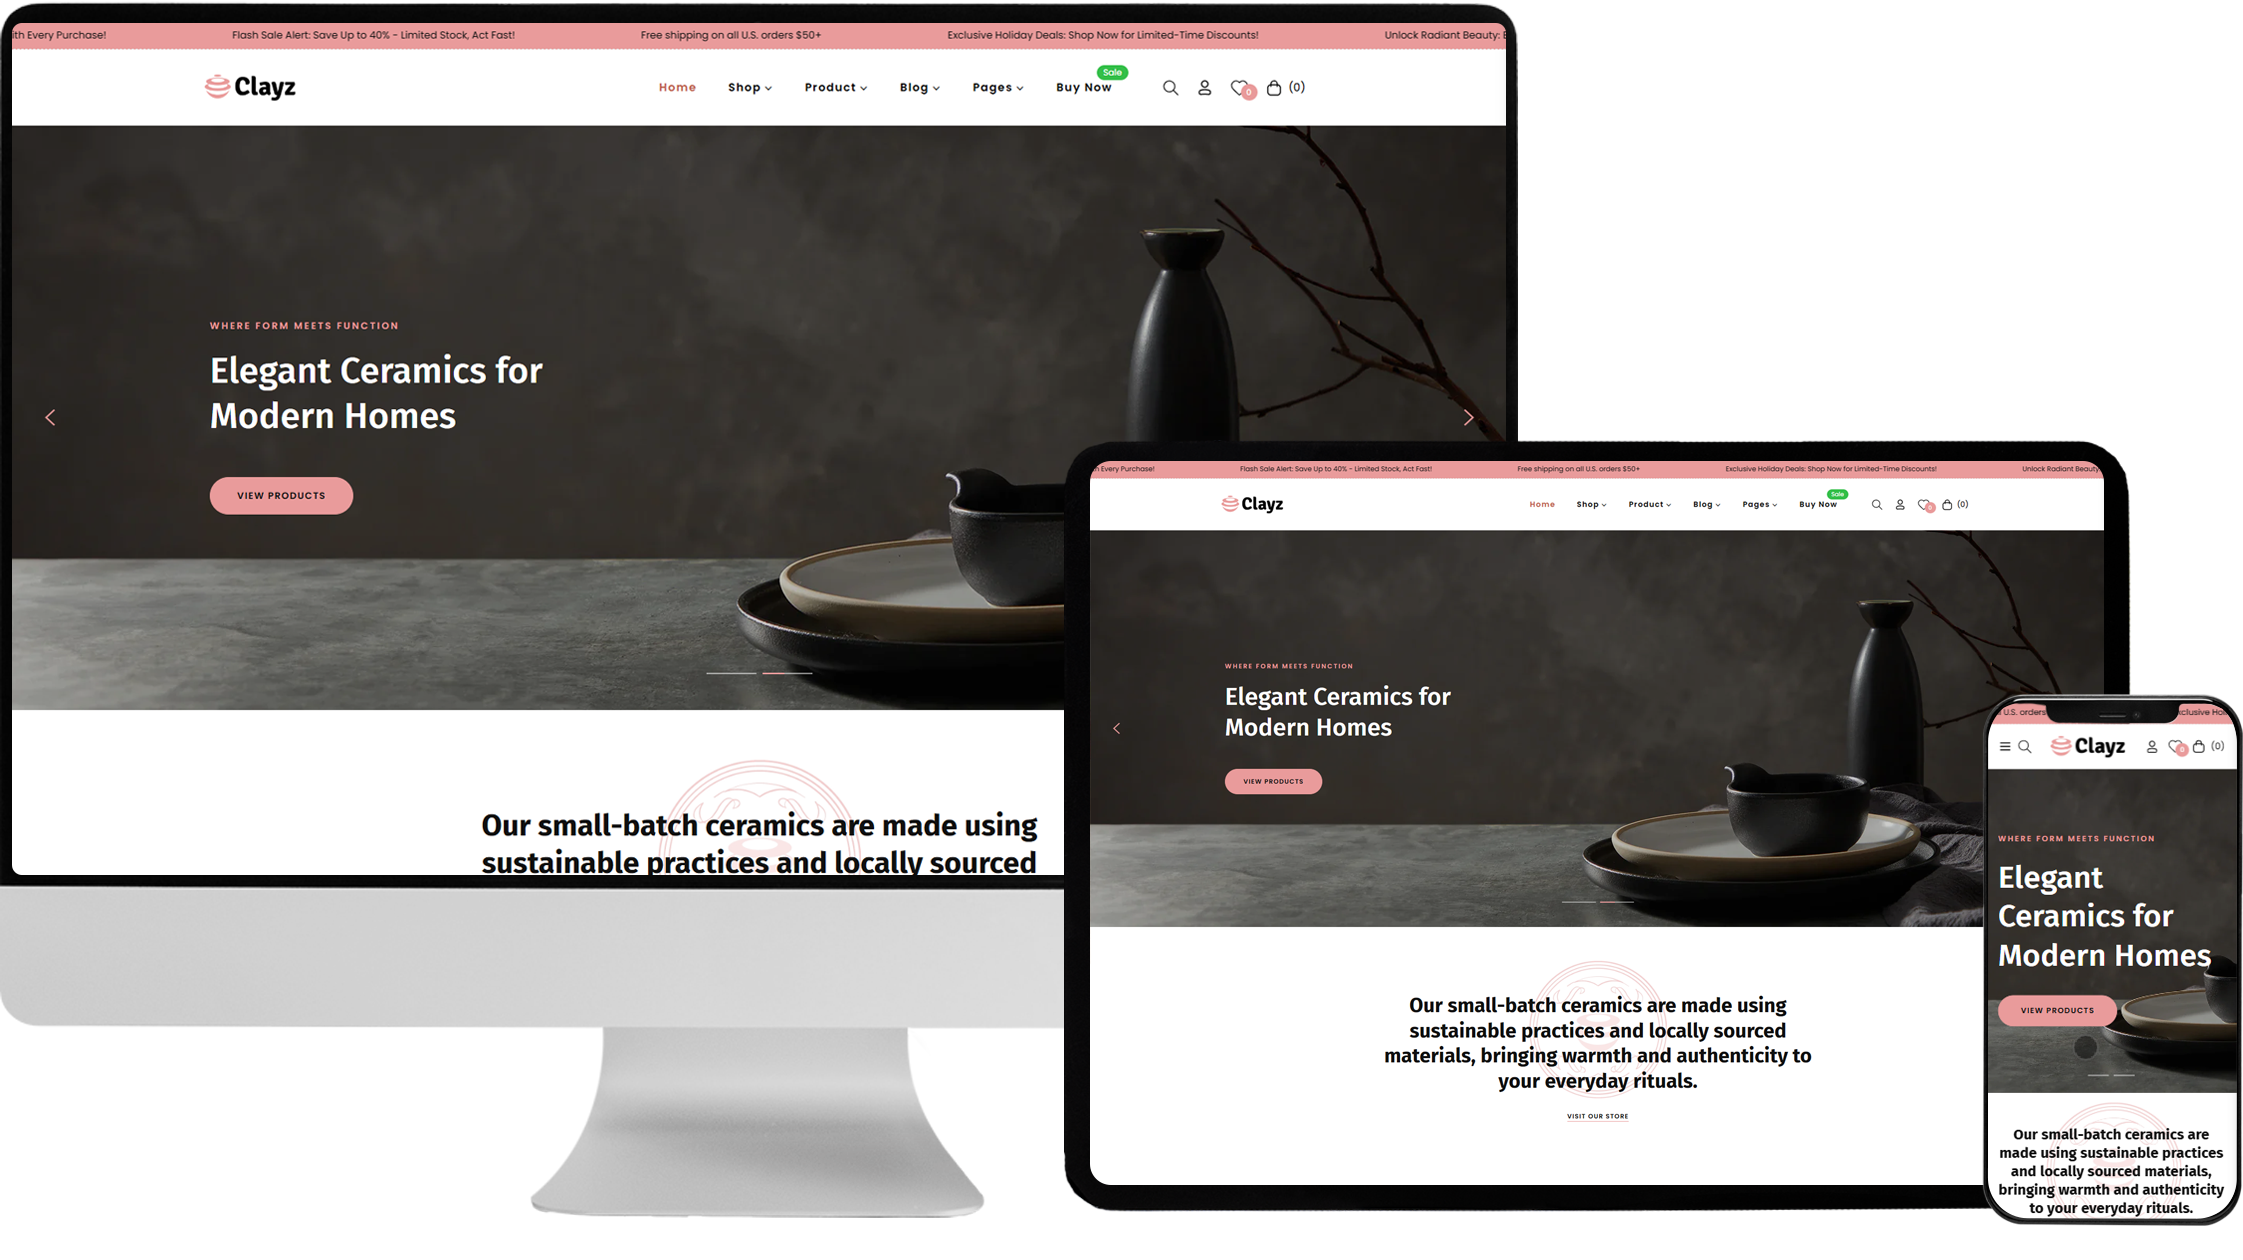
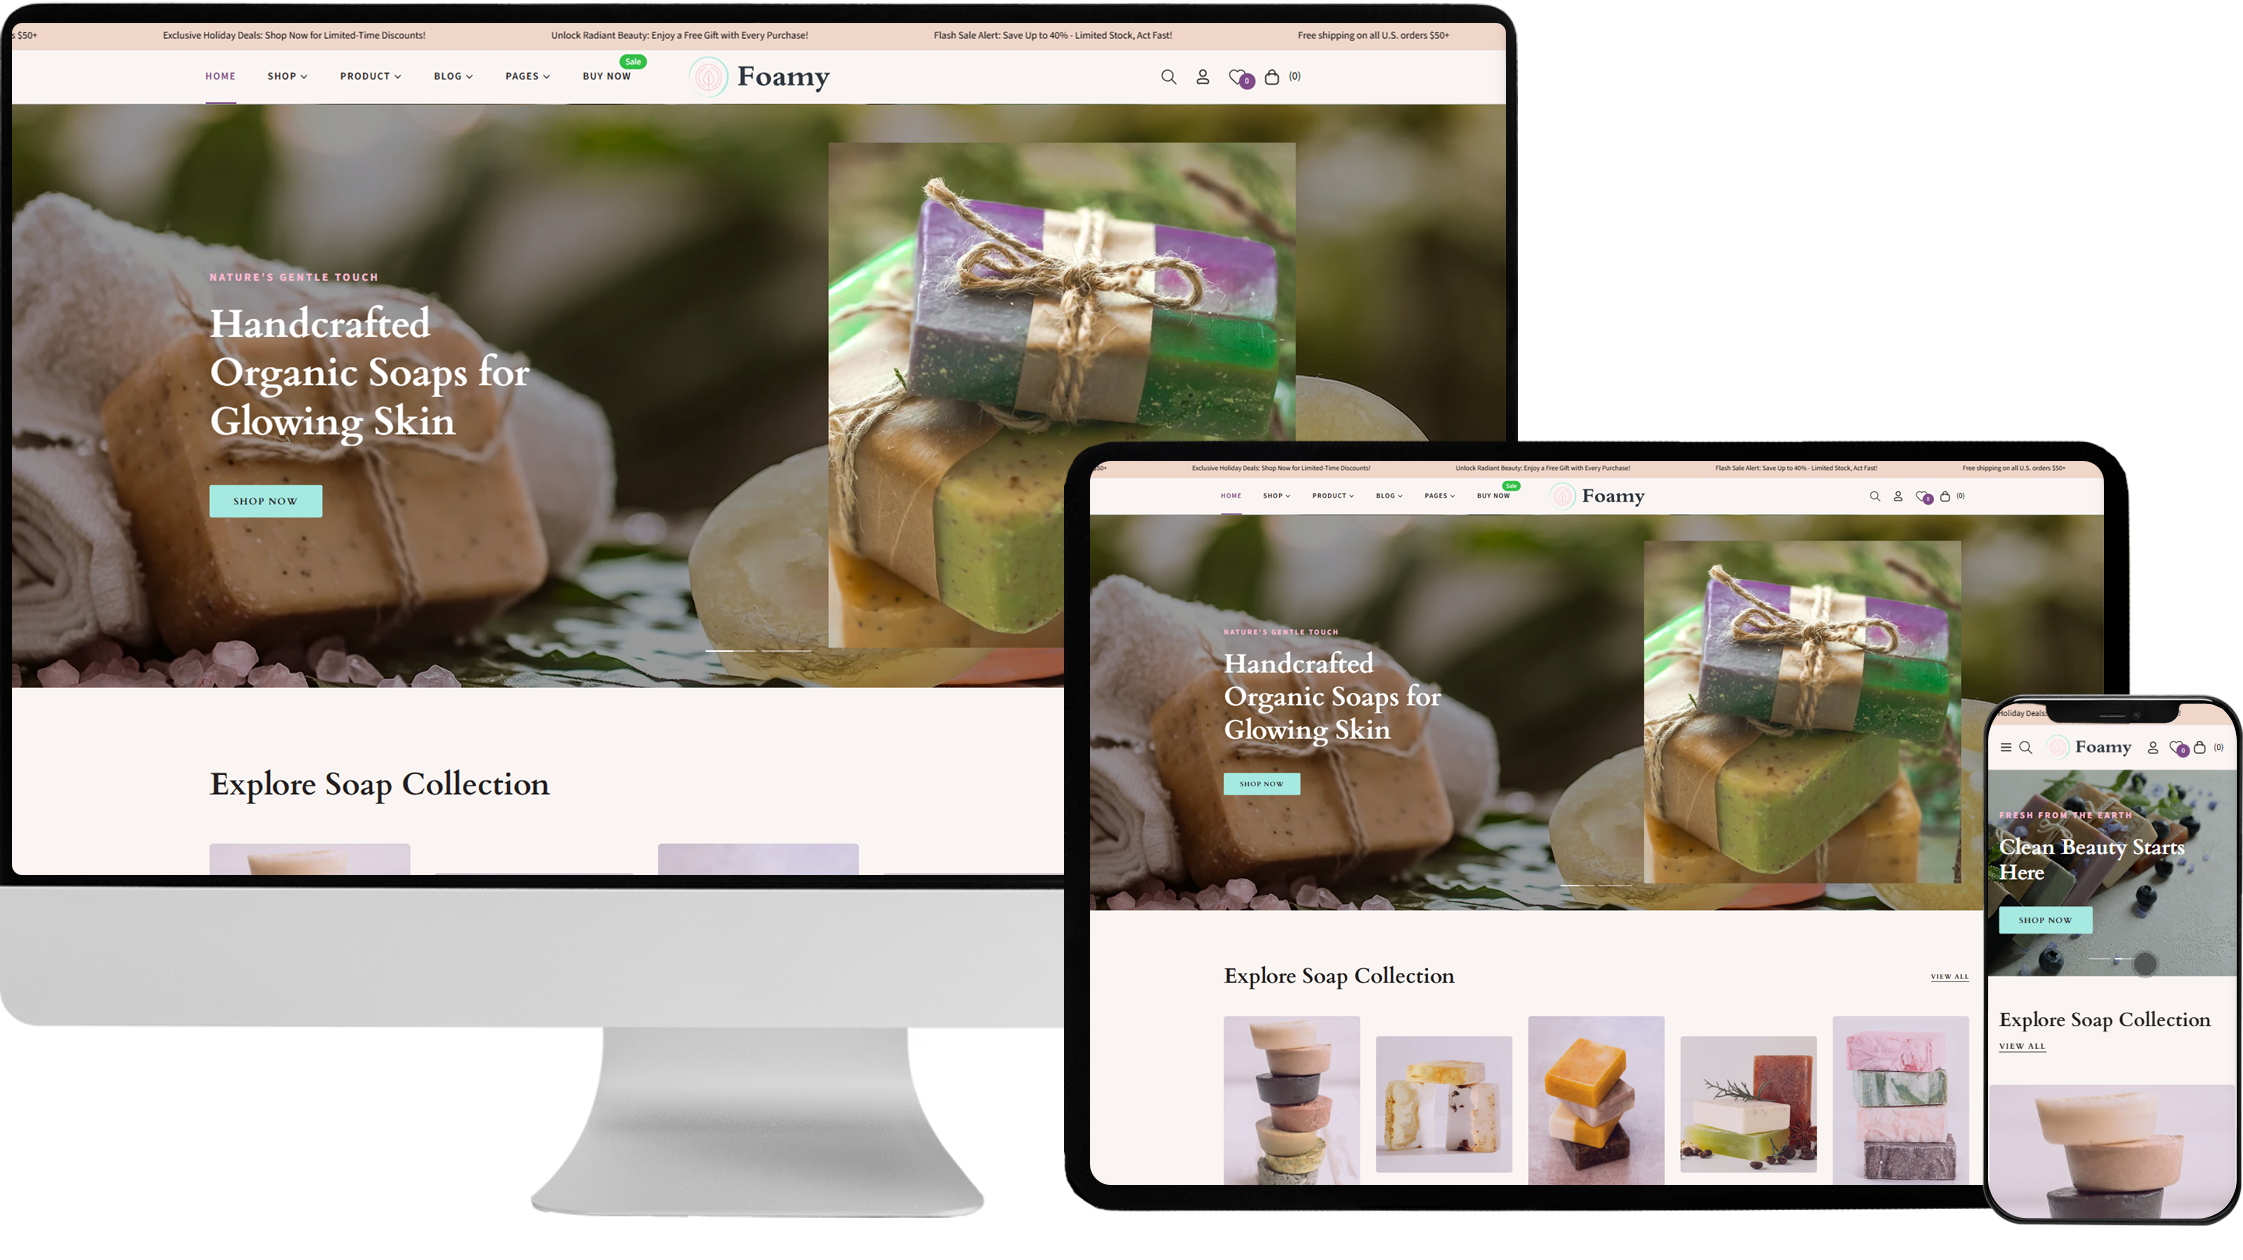
S
S

diff --git a/index.html b/index.html
@@ -8,7 +8,7 @@
     <meta http-equiv="X-UA-Compatible" content="IE=edge">
     <meta name="viewport" content="width=device-width, initial-scale=1">
     <!-- title -->
-    <title>Clayz - Ceramics & Pottery Decor Shopify 2.0 Theme</title>
+    <title>Foamy - Handmade Soap Shopify 2.0 Theme</title>
     <meta name="description" content="A best stylish, creative, modern responsive theme for different eCommerce business or industries." />
     <meta name="keywords" content="organic food theme, shopify, eCommerce shopify theme, responsive, furniture wood, fashion, furniture, mobile, watches, electronics, computers accessories, toys, jewellery, restaurant accessories" />
     <meta name="author" content="qodex">
@@ -53,7 +53,7 @@
                             <div class="collapse navbar-collapse" id="navbar">
                                 <ul class="nav">
                                     <li class="land-link">
-                                        <form method="post" action="https://qx-clayz.myshopify.com/password" target="_blank" id="login_form" accept-charset="UTF-8" class="storefront-password-form dt-custom-button">
+                                        <form method="post" action="https://qx-foamy.myshopify.com/password" target="_blank" id="login_form" accept-charset="UTF-8" class="storefront-password-form dt-custom-button">
                                             <input type="hidden" name="form_type" value="storefront_password">
                                             <input type="hidden" name="utf8" value="✓">
                                             <div class="input-group password__input-group">
@@ -63,7 +63,7 @@
                                         </form>
                                     </li>
                                     <li class="land-link">
-                                        <form method="post" action="https://qx-clayz.myshopify.com/password" target="_blank" id="login_form" accept-charset="UTF-8" class="storefront-password-form dt-custom-button">
+                                        <form method="post" action="https://qx-foamy.myshopify.com/password" target="_blank" id="login_form" accept-charset="UTF-8" class="storefront-password-form dt-custom-button">
                                             <input type="hidden" name="form_type" value="storefront_password">
                                             <input type="hidden" name="utf8" value="✓">
                                             <div class="input-group password__input-group">
@@ -82,7 +82,7 @@
                             </div>
                         </nav>
                         <div class="purchase-now-bottom">
-                            <a href="https://themeforest.net/user/qodex/portfolio" class="btn btn-style1" target="blank">Purchase Clayz</a>
+                            <a href="https://themeforest.net/user/qodex/portfolio" class="btn btn-style1" target="blank">Purchase Foamy</a>
                         </div>
                     </div>
                 </div>
@@ -103,13 +103,13 @@
                     <div class="landing-themebuy">
                         <div class="section-title">
                             <h2 style="margin-bottom: 20px; font-size: 38px;">
-                                <span style="line-height: 1.2em;">Clayz - Ceramics & Pottery Decor<br> Shopify 2.0 Theme</span>
+                                <span style="line-height: 1.2em;">Foamy - Handmade Soap Shopify 2.0 Theme</span>
                                 <span>Shop Password : <i>1</i></span>
                             </h2>
                         </div>
                         <div class="buy-button" style="text-align: center;">
                             <a href="#" style="margin: 0 10px;">
-                                <form method="post" action="https://qx-clayz.myshopify.com/password" target="_blank" id="login_form" accept-charset="UTF-8" class="storefront-password-form dt-custom-button">
+                                <form method="post" action="https://qx-foamy.myshopify.com/password" target="_blank" id="login_form" accept-charset="UTF-8" class="storefront-password-form dt-custom-button">
                                     <input type="hidden" name="form_type" value="storefront_password">
                                     <input type="hidden" name="utf8" value="✓">
                                     <div class="input-group password__input-group">
@@ -118,7 +118,7 @@
                                     </div>
                                 </form>
                             </a>
-                            <a href="https://1.envato.market/orolo" class="btn btn-style1" target="_blank" style="margin: 0 10px;">Purchase theme</a>
+                            <a href="https://themeforest.net/user/qodex/portfolio" class="btn btn-style1" target="_blank" style="margin: 0 10px;">Purchase theme</a>
                         </div>
                         <!-- buy button end -->
                     </div>
